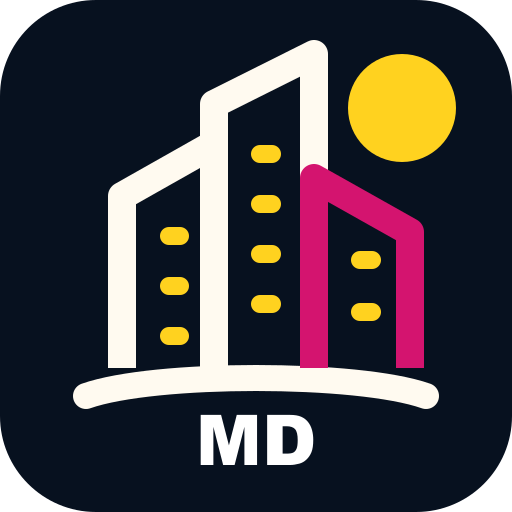
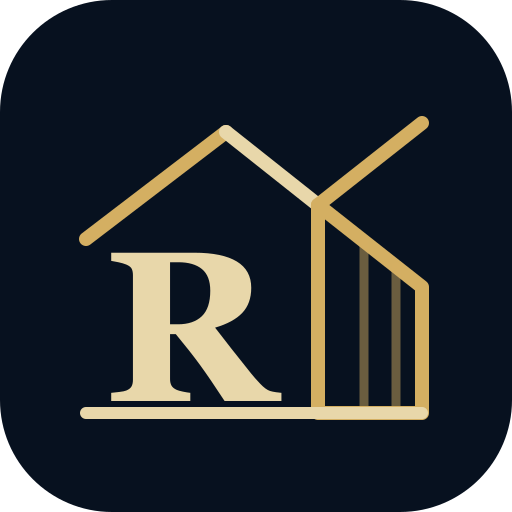
Finalize mobile homepage and RentPlace branding

diff --git a/components/Footer.tsx b/components/Footer.tsx
@@ -4,17 +4,107 @@ import Link from "next/link";
 import BrandLogo from "@/components/BrandLogo";
 import { useLanguage } from "@/context/LanguageContext";
 import { formatApartmentCountText } from "@/lib/apartments";
+import type { Language } from "@/locales/translations";
 
 type FooterTranslation = ReturnType<typeof useLanguage>["t"];
 
-export default function Footer() {
-  const { t } = useLanguage();
+const compactHomeCopy: Record<Language, { cta: string; bottom: string }> = {
+  ru: { cta: "Смотреть все квартиры", bottom: "Квартиры посуточно в Кишинёве" },
+  ro: { cta: "Vezi toate apartamentele", bottom: "Apartamente în chirie pe zi în Chișinău" },
+  en: { cta: "View all apartments", bottom: "Daily apartments in Chisinau" },
+  uk: { cta: "Дивитися всі квартири", bottom: "Квартири подобово в Кишиневі" },
+  cs: { cta: "Zobrazit všechny apartmány", bottom: "Apartmány na den v Kišiněvě" },
+};
+
+export default function Footer({ compactHome = false }: { compactHome?: boolean }) {
+  const { t, language } = useLanguage();
 
   return (
     <footer className="bg-gradient-to-b from-[#0b1628] to-[#07111f] text-white">
-      <MobileFooter t={t} />
+      {compactHome ? <CompactHomeFooter t={t} language={language} /> : <MobileFooter t={t} />}
       <DesktopFooter t={t} />
     </footer>
+  );
+}
+
+function CompactHomeFooter({
+  t,
+  language,
+}: {
+  t: FooterTranslation;
+  language: Language;
+}) {
+  const copy = compactHomeCopy[language];
+
+  return (
+    <div className="px-4 py-6 lg:hidden">
+      <div className="mx-auto max-w-md">
+        <div className="flex items-start justify-between gap-3">
+          <Link href="/" className="min-w-0 pt-1" aria-label="RentPlace">
+            <BrandLogo size="mobile" />
+          </Link>
+
+          <div className="shrink-0 text-right">
+            <p className="text-[9px] font-black uppercase tracking-[0.2em] text-[#ffd21f]">
+              {t.footer.contacts}
+            </p>
+            <div className="mt-1 space-y-0.5 text-[13px] font-black leading-tight">
+              <a href="tel:+37369990190" className="block min-h-5">+373 69 990 190</a>
+              <a href="tel:+37379990190" className="block min-h-5">+373 79 990 190</a>
+            </div>
+            <div className="mt-1.5 flex justify-end gap-1">
+              <CompactSocialLink href="https://wa.me/37369990190" label="WhatsApp" tone="bg-[#25D366]">
+                <WhatsAppIcon />
+              </CompactSocialLink>
+              <CompactSocialLink href="viber://chat?number=%2B37369990190" label="Viber" tone="bg-[#7360F2]">
+                <ViberIcon />
+              </CompactSocialLink>
+              <CompactSocialLink href="https://t.me/rentplacemd" label="Telegram" tone="bg-[#229ED9]">
+                <TelegramIcon />
+              </CompactSocialLink>
+            </div>
+          </div>
+        </div>
+
+        <Link
+          href="/apartments"
+          className="mt-5 flex min-h-12 items-center justify-center rounded-2xl bg-[#ffd21f] px-5 text-center text-[14px] font-black text-[#07111f] shadow-lg shadow-yellow-400/10 transition active:scale-[0.98]"
+        >
+          {copy.cta}
+        </Link>
+
+        <div className="mt-5 border-t border-white/10 pt-4 text-center">
+          <p className="text-[12px] font-bold text-white/68">{t.footer.copyright}</p>
+          <p className="mt-1 text-[11px] font-semibold text-white/42">{copy.bottom}</p>
+        </div>
+      </div>
+    </div>
+  );
+}
+
+function CompactSocialLink({
+  href,
+  label,
+  tone,
+  children,
+}: {
+  href: string;
+  label: string;
+  tone: string;
+  children: React.ReactNode;
+}) {
+  const external = href.startsWith("http");
+  return (
+    <a
+      href={href}
+      {...(external ? { target: "_blank", rel: "noopener noreferrer" } : {})}
+      className="flex h-9 w-9 items-center justify-center"
+      aria-label={label}
+    >
+      <span className={`flex h-7 w-7 items-center justify-center rounded-lg text-white shadow-md ring-1 ring-white/10 ${tone}`}>
+        {children}
+      </span>
+    </a>
   );
 }
 

diff --git a/components/Header.tsx b/components/Header.tsx
@@ -287,7 +287,7 @@ function MobileHeader({ apartmentMode }: { apartmentMode: boolean }) {
         </div>
       </div>
 
-      <div className="bg-gradient-to-b from-[#07111f] to-[#0b1628] px-3 py-1">
+      <div className="bg-gradient-to-b from-[#07111f] to-[#0b1628] px-3 py-0.5">
         <div className="flex items-start justify-between gap-2">
           <Link
             href="/"
@@ -303,13 +303,13 @@ function MobileHeader({ apartmentMode }: { apartmentMode: boolean }) {
             <div
               className={[
                 "space-y-0.5 font-black leading-[1.02] text-white",
-                apartmentMode ? "text-[11px] min-[390px]:text-[14px]" : "text-[11px] min-[360px]:text-[14px]",
+                apartmentMode ? "text-[10.5px] min-[390px]:text-[13px]" : "text-[10.5px] min-[360px]:text-[13px]",
               ].join(" ")}
             >
-              <a href="tel:+37379990190" className="flex min-h-6 items-center justify-end">
+              <a href="tel:+37379990190" className="flex min-h-5 items-center justify-end">
                 +373 79 990 190
               </a>
-              <a href="tel:+37369990190" className="flex min-h-6 items-center justify-end">
+              <a href="tel:+37369990190" className="flex min-h-5 items-center justify-end">
                 +373 69 990 190
               </a>
             </div>
@@ -317,21 +317,21 @@ function MobileHeader({ apartmentMode }: { apartmentMode: boolean }) {
           </div>
         </div>
 
-        <div className="mt-1 flex min-w-0 items-center justify-between gap-2">
+        <div className="flex min-w-0 items-center justify-between gap-2">
           <ApartmentIdSearch variant="header" />
           <div className="ml-auto flex shrink-0 items-center gap-1.5">
             <a
               href="https://wa.me/37369990190"
               target="_blank"
               rel="noopener noreferrer"
-              className="flex h-[30px] w-[30px] shrink-0 items-center justify-center rounded-lg bg-[#25D366] text-white shadow-md shadow-emerald-500/15 ring-1 ring-white/10 transition active:scale-95 min-[390px]:h-8 min-[390px]:w-8"
+              className="relative flex h-7 w-7 shrink-0 items-center justify-center rounded-lg bg-[#25D366] text-white shadow-md shadow-emerald-500/15 ring-1 ring-white/10 after:absolute after:-inset-[3px] transition active:scale-95"
               aria-label="WhatsApp"
             >
               <WhatsAppIcon />
             </a>
             <a
               href="viber://chat?number=%2B37369990190"
-              className="flex h-[30px] w-[30px] shrink-0 items-center justify-center rounded-lg bg-[#7360F2] text-white shadow-md shadow-violet-500/15 ring-1 ring-white/10 transition active:scale-95 min-[390px]:h-8 min-[390px]:w-8"
+              className="relative flex h-7 w-7 shrink-0 items-center justify-center rounded-lg bg-[#7360F2] text-white shadow-md shadow-violet-500/15 ring-1 ring-white/10 after:absolute after:-inset-[3px] transition active:scale-95"
               aria-label="Viber"
             >
               <ViberIcon />
@@ -340,7 +340,7 @@ function MobileHeader({ apartmentMode }: { apartmentMode: boolean }) {
               href="https://t.me/rentplacemd"
               target="_blank"
               rel="noopener noreferrer"
-              className="flex h-[30px] w-[30px] shrink-0 items-center justify-center rounded-lg bg-[#229ED9] text-white shadow-md shadow-sky-500/15 ring-1 ring-white/10 transition active:scale-95 min-[390px]:h-8 min-[390px]:w-8"
+              className="relative flex h-7 w-7 shrink-0 items-center justify-center rounded-lg bg-[#229ED9] text-white shadow-md shadow-sky-500/15 ring-1 ring-white/10 after:absolute after:-inset-[3px] transition active:scale-95"
               aria-label="Telegram"
             >
               <TelegramIcon />

diff --git a/lib/seo.ts b/lib/seo.ts
@@ -24,7 +24,7 @@ export const baseUrl = "https://rentplace.md";
 export const siteName = "RentPlaceMD";
 export const defaultLocale = "ru_MD";
 export const alternateOpenGraphLocales = ["ro_MD", "en_US", "uk_UA", "cs_CZ"];
-export const mainSocialImagePath = "/og/rentplace-main-1200x630-v2.jpg";
+export const mainSocialImagePath = "/og/rentplace-gold-main-1200x630-v3.jpg";
 export const mainSocialImageUrl = baseUrl + mainSocialImagePath;
 export const mainSocialImageAlt = "RentPlace.md — квартиры посуточно в Кишинёве";
 export const mainSocialImage = {
@@ -79,14 +79,14 @@ export const kindTitle = {
 
 export const iconMetadata: Metadata["icons"] = {
   icon: [
-    { url: "/favicon.ico", sizes: "any" },
-    { url: "/favicon-16x16.png", sizes: "16x16", type: "image/png" },
-    { url: "/favicon-32x32.png", sizes: "32x32", type: "image/png" },
-    { url: "/favicon-48x48.png", sizes: "48x48", type: "image/png" },
-    { url: "/icon.png", sizes: "512x512", type: "image/png" },
+    { url: "/brand/rentplace-favicon-gold-v3.ico", sizes: "any", type: "image/x-icon" },
+    { url: "/brand/rentplace-favicon-gold-v3-16.png", sizes: "16x16", type: "image/png" },
+    { url: "/brand/rentplace-favicon-gold-v3-32.png", sizes: "32x32", type: "image/png" },
+    { url: "/brand/rentplace-favicon-gold-v3-48.png", sizes: "48x48", type: "image/png" },
+    { url: "/brand/rentplace-icon-gold-v3-512.png", sizes: "512x512", type: "image/png" },
   ],
-  shortcut: ["/favicon.ico"],
-  apple: [{ url: "/apple-icon.png", sizes: "180x180", type: "image/png" }],
+  shortcut: ["/brand/rentplace-favicon-gold-v3.ico"],
+  apple: [{ url: "/brand/rentplace-apple-touch-gold-v3.png", sizes: "180x180", type: "image/png" }],
 };
 
 export function getApartmentSlug(id: ApartmentId) {
@@ -571,7 +571,7 @@ export function buildSiteJsonLd() {
       "@id": baseUrl + "/#organization",
       name: siteName,
       url: baseUrl,
-      logo: baseUrl + "/icon.png",
+      logo: baseUrl + "/brand/rentplace-icon-gold-v3-512.png",
       image: imageObjects([mainSocialImagePath], () => "RentPlaceMD apartments in Chisinau"),
       sameAs,
       contactPoint: [
@@ -604,7 +604,7 @@ export function buildSiteJsonLd() {
       image: imageObjects([mainSocialImagePath, "/main.jpg"], (index) =>
         index === 1 ? "RentPlaceMD apartments in Chisinau" : "Ismail 88 apartment building in Chisinau",
       ),
-      logo: baseUrl + "/icon.png",
+      logo: baseUrl + "/brand/rentplace-icon-gold-v3-512.png",
       telephone: phoneNumbers,
       priceRange: "800-1400 MDL",
       address: {

diff --git a/app/manifest.ts b/app/manifest.ts
@@ -15,31 +15,31 @@ export default function manifest(): MetadataRoute.Manifest {
     lang: "ru",
     icons: [
       {
-        src: "/favicon.ico",
+        src: "/brand/rentplace-favicon-gold-v3.ico",
         sizes: "16x16 32x32 48x48",
         type: "image/x-icon",
         purpose: "any",
       },
       {
-        src: "/favicon-48x48.png",
+        src: "/brand/rentplace-favicon-gold-v3-48.png",
         sizes: "48x48",
         type: "image/png",
         purpose: "any",
       },
       {
-        src: "/apple-icon.png",
+        src: "/brand/rentplace-apple-touch-gold-v3.png",
         sizes: "180x180",
         type: "image/png",
         purpose: "any",
       },
       {
-        src: "/android-chrome-192x192.png",
+        src: "/brand/rentplace-icon-gold-v3-192.png",
         sizes: "192x192",
         type: "image/png",
         purpose: "maskable",
       },
       {
-        src: "/android-chrome-512x512.png",
+        src: "/brand/rentplace-icon-gold-v3-512.png",
         sizes: "512x512",
         type: "image/png",
         purpose: "maskable",

diff --git a/components/HomeNavigation.tsx b/components/HomeNavigation.tsx
@@ -145,7 +145,7 @@ export default function HomeNavigation() {
                 </span>
               </>
             );
-            const classes = `group flex h-[190px] min-w-0 flex-col overflow-hidden rounded-[20px] border border-white/[0.08] shadow-[0_12px_32px_rgba(0,0,0,.2)] transition hover:-translate-y-0.5 focus-visible:outline focus-visible:outline-2 focus-visible:outline-offset-2 focus-visible:outline-white active:scale-[.985] sm:h-[208px] ${card.tone} ${card.textTone}`;
+            const classes = `group flex h-[172px] min-w-0 flex-col overflow-hidden rounded-[20px] border border-white/[0.08] shadow-[0_12px_32px_rgba(0,0,0,.2)] transition hover:-translate-y-0.5 focus-visible:outline focus-visible:outline-2 focus-visible:outline-offset-2 focus-visible:outline-white active:scale-[.985] sm:h-[208px] ${card.tone} ${card.textTone}`;
 
             return card.key === "quick" ? (
               <button key={card.key} type="button" onClick={() => setShowRequest(true)} className={`${classes} text-left`}>

diff --git a/components/ApartmentIdSearch.tsx b/components/ApartmentIdSearch.tsx
@@ -52,7 +52,7 @@ export default function ApartmentIdSearch({ variant }: ApartmentIdSearchProps) {
   }
 
   return (
-    <div className="flex-none text-white lg:w-[210px] lg:rounded-xl lg:border lg:border-white/10 lg:bg-white/[0.05] lg:px-2 lg:py-1.5 lg:shadow-inner xl:w-[255px]">
+    <div className="ml-2 flex-none -translate-y-0.5 text-white lg:ml-0 lg:w-[210px] lg:translate-y-0 lg:rounded-xl lg:border lg:border-white/10 lg:bg-white/[0.05] lg:px-2 lg:py-1.5 lg:shadow-inner xl:w-[255px]">
       <div className="flex min-w-0 items-center gap-1">
         <h2 className="shrink-0 whitespace-nowrap text-[7px] font-black uppercase leading-none tracking-[0.015em] text-white/90 min-[390px]:text-[7.5px] lg:min-w-[68px] lg:max-w-[86px] lg:whitespace-normal lg:text-[9px] lg:leading-tight lg:tracking-[0.06em] xl:min-w-[82px] xl:max-w-[112px] xl:text-[11px]">
           {t.hero.idTitle}

diff --git a/components/BrandLogo.tsx b/components/BrandLogo.tsx
@@ -16,11 +16,11 @@ export default function BrandLogo({
       subtitle: "text-[4.5px] tracking-[0.08em]",
     },
     mobile: {
-      root: "gap-2",
-      mark: "h-10 w-11",
-      monogram: "text-[28px]",
-      name: "text-[15px] tracking-[0.12em]",
-      subtitle: "text-[5px] tracking-[0.09em]",
+      root: "gap-1.5",
+      mark: "h-9 w-10",
+      monogram: "text-[25px]",
+      name: "text-[14px] tracking-[0.12em]",
+      subtitle: "text-[4.5px] tracking-[0.08em]",
     },
     desktop: {
       root: "gap-3",

diff --git a/app/page.tsx b/app/page.tsx
@@ -34,7 +34,7 @@ export default async function Home() {
       <HomeLatestApartments />
       <CityVideoRail videos={homeVideos} placement="home" />
       <LocationMap />
-      <Footer />
+      <Footer compactHome />
     </main>
   );
 }
